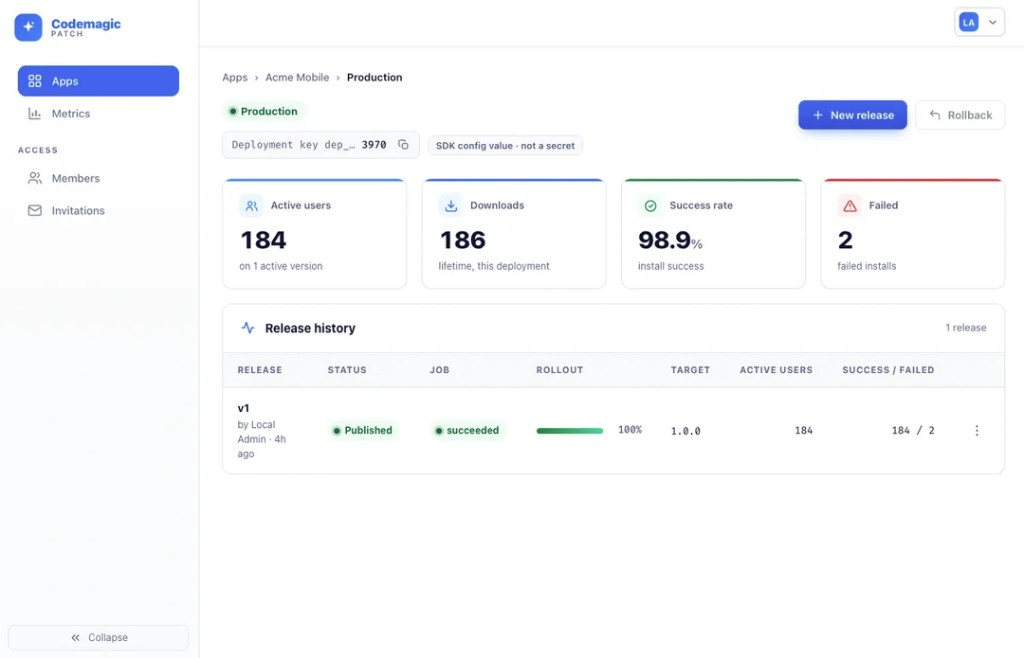
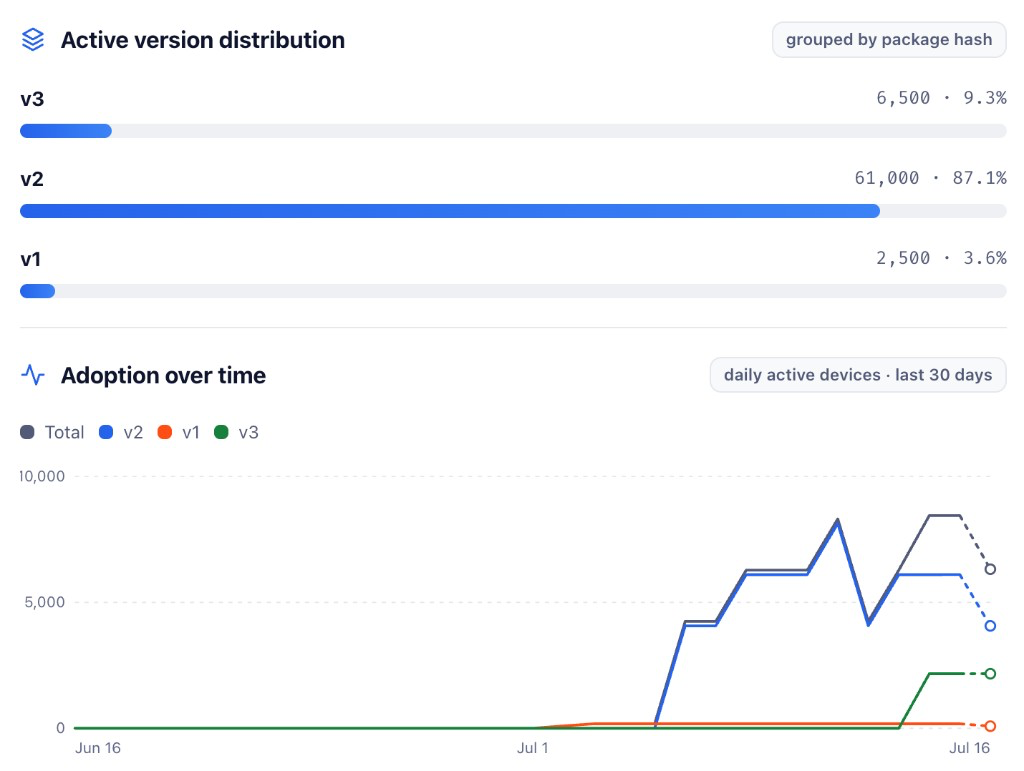
Enhance homepage layout and styling
- Added new product shot section to showcase the dashboard overview with updated CSS styles for improved visual appeal.
- Adjusted padding and overflow properties in existing sections for better layout consistency.
- Updated image alt text for clarity and SEO optimization.
- Modified media queries to ensure responsive design across different screen sizes.

diff --git a/docs-site/src/pages/index.module.css b/docs-site/src/pages/index.module.css
@@ -1,10 +1,11 @@
 .page {
   --patch-home-wide: 72rem;
   --patch-home-card-shadow: 0 4px 30px rgba(44, 83, 166, 0.14);
+  overflow-x: clip;
 }
 
 .hero {
-  padding: 7rem 0 4.5rem;
+  padding: 7rem 0 3.5rem;
 }
 
 .heroInner {
@@ -111,8 +112,72 @@
   text-decoration: none;
 }
 
+.productShot {
+  position: relative;
+  padding: 3.5rem 0 6.5rem;
+  /* Let the glow bleed into the section below (CodePush pattern).
+     Horizontal spill is clipped on .page instead. */
+  overflow: visible;
+}
+
+.productShotInner {
+  position: relative;
+  max-width: var(--patch-home-wide);
+  margin: 0 auto;
+  padding: 0 1.5rem;
+  display: flex;
+  justify-content: center;
+}
+
+.productShotInner::before {
+  content: '';
+  position: absolute;
+  top: 50%;
+  left: 50%;
+  /* Shift glow downward so it continues under "Don't wait days" */
+  margin-top: 100px;
+  transform: translate(-50%, -50%);
+  width: 1713px;
+  height: 1102px;
+  background-image: url('/img/product-shot-glow.png');
+  background-size: contain;
+  background-repeat: no-repeat;
+  background-position: center;
+  filter: blur(20px);
+  z-index: 0;
+  pointer-events: none;
+}
+
+.productShotFrame {
+  position: relative;
+  z-index: 1;
+  width: 100%;
+  padding: 10px;
+  border-radius: 22px;
+  background: linear-gradient(
+    137deg,
+    rgba(255, 255, 255, 0.24) 23.28%,
+    rgba(255, 255, 255, 0.15) 71.87%
+  );
+  backdrop-filter: blur(86px);
+  -webkit-backdrop-filter: blur(86px);
+  box-shadow:
+    0 4px 4px 0 rgba(0, 0, 0, 0.25),
+    inset 0 1px 1px 0 rgba(255, 255, 255, 0.6);
+  border: 2px solid rgba(255, 255, 255, 0.58);
+}
+
+.productShotImage {
+  display: block;
+  width: 100%;
+  height: auto;
+  border-radius: 18px;
+  background: #f5f7fb;
+}
+
 .whySection {
-  padding: 4rem 0 5rem;
+  position: relative;
+  padding: 4.5rem 0 5rem;
 }
 
 .whyInner {
@@ -554,7 +619,26 @@
 
 @media (max-width: 576px) {
   .hero {
-    padding: 3.5rem 0 3.25rem;
+    padding: 3.5rem 0 2.5rem;
+  }
+
+  .productShot {
+    padding: 2rem 0 4rem;
+  }
+
+  .productShotInner::before {
+    width: 130vw;
+    height: 85vw;
+    margin-top: 48px;
+  }
+
+  .productShotFrame {
+    border-radius: 16px;
+    padding: 8px;
+  }
+
+  .productShotImage {
+    border-radius: 12px;
   }
 
   .lead,
@@ -686,4 +770,16 @@
 
 [data-theme='dark'] .featureImage {
   box-shadow: var(--patch-home-card-shadow);
+}
+
+[data-theme='dark'] .productShotFrame {
+  background: linear-gradient(
+    137deg,
+    rgba(255, 255, 255, 0.12) 23.28%,
+    rgba(255, 255, 255, 0.06) 71.87%
+  );
+  border-color: rgba(255, 255, 255, 0.28);
+  box-shadow:
+    0 4px 4px 0 rgba(0, 0, 0, 0.4),
+    inset 0 1px 1px 0 rgba(255, 255, 255, 0.25);
 }

diff --git a/docs-site/src/pages/index.tsx b/docs-site/src/pages/index.tsx
@@ -89,7 +89,7 @@ const SECTIONS = [
     reverse: false,
     media: 'image' as const,
     imageAlt:
-      'Codemagic Patch web dashboard showing deployment metrics and release history',
+      'Codemagic Patch metrics: active version distribution and adoption over time',
   },
   {
     title: 'Run it yourself',
@@ -188,6 +188,7 @@ function FeatureCopy({
 
 export default function Home(): ReactNode {
   const dashboardSrc = useBaseUrl('/img/dashboard.png');
+  const dashboardOverviewSrc = useBaseUrl('/img/dashboard-overview.png');
 
   return (
     <Layout
@@ -213,6 +214,20 @@ export default function Home(): ReactNode {
             </div>
           </div>
         </header>
+
+        <div className={styles.productShot}>
+          <div className={styles.productShotInner}>
+            <div className={styles.productShotFrame}>
+              <img
+                className={styles.productShotImage}
+                src={dashboardOverviewSrc}
+                alt="Codemagic Patch dashboard showing Production release history, rollouts, and deployment metrics"
+                width={3024}
+                height={1490}
+              />
+            </div>
+          </div>
+        </div>
 
         <section className={styles.whySection} aria-labelledby="home-why-ota">
           <div className={styles.whyInner}>